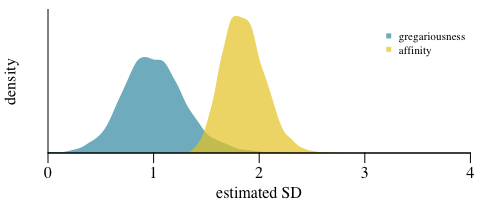
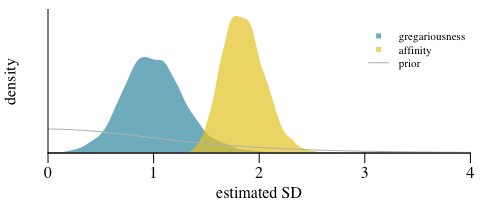
update readme

diff --git a/README.md b/README.md
@@ -1,9 +1,25 @@
 
 <!-- README.md is generated from README.Rmd. Please edit that file -->
 
-# bamoso
+# `bamoso`: Bayesian modelling of animal social interactions
 
-Bayesian modelling of animal social interactions
+$$
+\textrm{interactions}_{ij} = \textrm{baseline} + \sqrt{0.5} \times (\textrm{individual sociality}_i + \textrm{individual sociality}_j) + \textrm{dyadic sociality}_{ij}
+$$
+
+supported data types for observed interactions:
+
+- frequency (Poisson)
+
+- discrete proportion (Binomial)
+
+- continuous proportion (Beta)
+
+- duration (Gamma)
+
+- binary (Bernoulli) (experimental)
+
+- duration with zeros (mixture Bernoulli/Gamma) (experimental)
 
 ## Installation
 
@@ -71,6 +87,7 @@ vignette("intro", package = "bamoso")
 
 <img src="man/figures/README-groomdatasetplot-1.png" alt="\label{fig:syl_net}Example data set. Grooming frequencies on the left and dyadic observation hours on the right." width="60%" />
 <p class="caption">
+
 Example data set. Grooming frequencies on the left and dyadic
 observation hours on the right.
 </p>
@@ -124,6 +141,7 @@ pp_model_stat(res, stat = "max", xlab = "maximum number of grooming bouts",
 
 <img src="man/figures/README-ppcheck-1.png" alt="\label{fig:syl_net_pp}Posterior predictive checks for Barbary macaque grooming data. On the left: bars represent observed grooming frequencies. The circles represent the median frequencies predicted by the model and the vertical bars the 89\% interval around these predictions. One the right: the histogram is the posterior distribution of the maximum number of grooming bouts predicted by the model across all posterior samples. The red line indicates the observed value in the data." width="80%" />
 <p class="caption">
+
 Posterior predictive checks for Barbary macaque grooming data. On the
 left: bars represent observed grooming frequencies. The circles
 represent the median frequencies predicted by the model and the vertical
@@ -136,13 +154,14 @@ red line indicates the observed value in the data.
 </div>
 
 ``` r
-sociality_plot(res)
+sociality_plot(res, add_prior = TRUE)
 ```
 
 <div class="figure" style="text-align: center">
 
 <img src="man/figures/README-socplot-1.png" alt="\label{fig:syl_net_soc}Posteriors for the two sociality components. Variation among dyads is larger than variation among individuals." width="50%" />
 <p class="caption">
+
 Posteriors for the two sociality components. Variation among dyads is
 larger than variation among individuals.
 </p>
@@ -158,6 +177,7 @@ ridge_plot(res, greg = FALSE, sel_subset = 10:20, vert_exp = 15)
 
 <img src="man/figures/README-ridgeplot-1.png" alt="\label{fig:syl_net_ridge}Posteriors for the two sociality components. The affinity distributions on the right only reflect a subset of 10 dyads." width="80%" />
 <p class="caption">
+
 Posteriors for the two sociality components. The affinity distributions
 on the right only reflect a subset of 10 dyads.
 </p>
